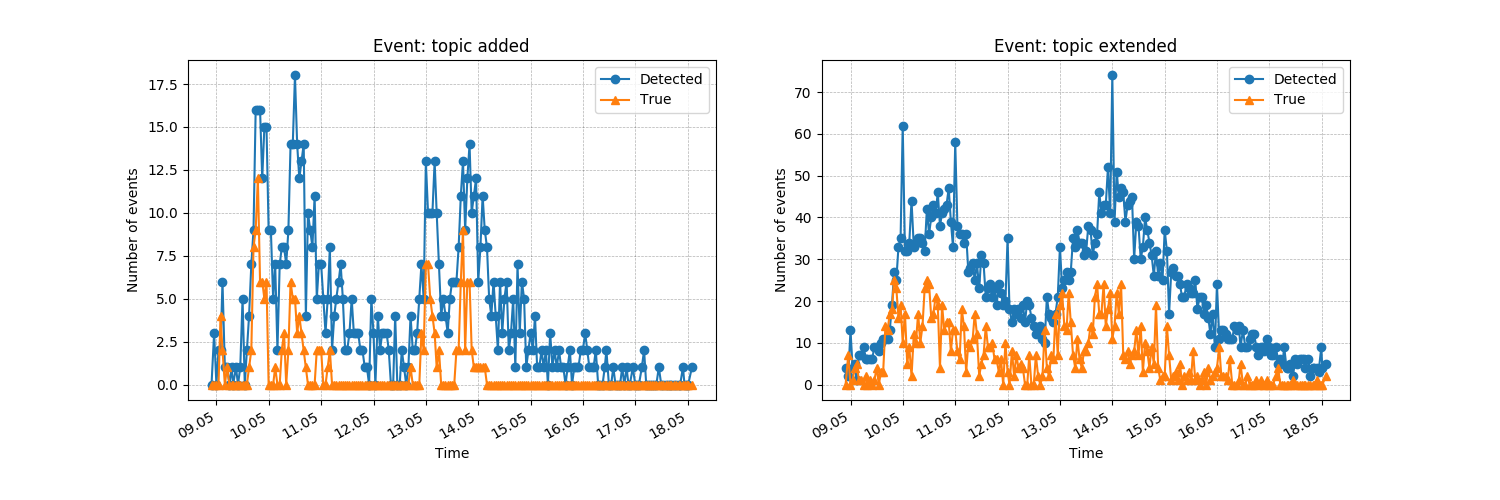
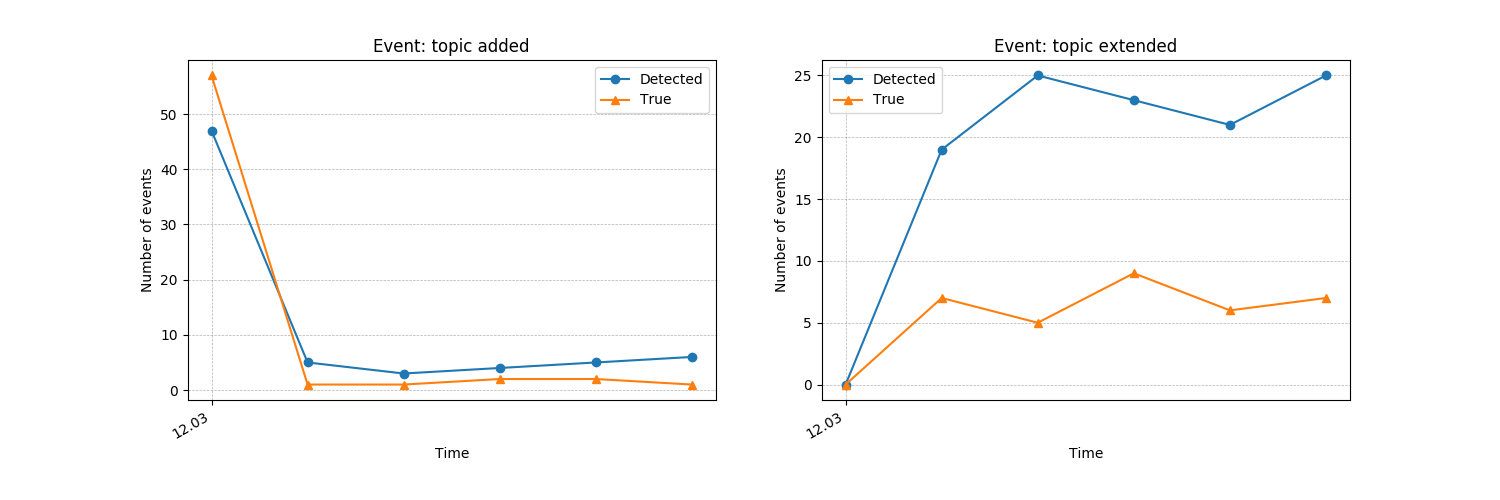
Fix errors in online clustering validation.. Now the values make finally sense

diff --git a/app/data_processing/online_clustering.py b/app/data_processing/online_clustering.py
@@ -58,17 +58,20 @@ def cluster_news(news_articles):
     )
 
 
-def find_changes_in_clusters(existing_clusters, new_cluster_identifiers):
+def find_changes_in_clusters(clusters, new_cluster_identifiers):
     changed_clusters = []
     unchanged_clusters = []
     new_clusters = []
 
     lsh = MinHashLSH(threshold=0.75, num_perm=256)
     min_hashes = dict()
-    for index, cluster in existing_clusters.iterrows():
-        m = create_minhash(cluster["identifier"])
+    clusters_by_index = dict()
+
+    for index, cluster in enumerate(clusters):
+        m = create_minhash(cluster)
         min_hashes[index] = m
         lsh.insert(index, m)
+        clusters_by_index[index] = cluster
 
     for identifier in new_cluster_identifiers:
         m = create_minhash(identifier)
@@ -78,7 +81,7 @@ def find_changes_in_clusters(existing_clusters, new_cluster_identifiers):
             new_clusters.append(identifier)
         else:
             cluster_id = find_best_match(m, min_hashes, cluster_ids)
-            existing_identifier = existing_clusters.loc[cluster_id]["identifier"]
+            existing_identifier = clusters_by_index[cluster_id]
             existing_news = set(existing_identifier.split(","))
             new_news = set(identifier.split(","))
 
@@ -87,7 +90,7 @@ def find_changes_in_clusters(existing_clusters, new_cluster_identifiers):
 
             if len(additions) == 0 and len(deletions) == 0:
                 unchanged_clusters.append(identifier)
-            else:
+            elif len(additions) > 0:
                 changed_clusters.append(
                     {
                         "cluster_id": cluster_id,
@@ -104,11 +107,13 @@ def find_changes_in_clusters(existing_clusters, new_cluster_identifiers):
 def find_best_match(min_hash, min_hashes, cluster_ids):
     best_match = 0
     best_similarity = 0
+
     for cluster_id in cluster_ids:
         similarity = min_hash.jaccard(min_hashes[cluster_id])
         if similarity > best_similarity:
             best_similarity = similarity
             best_match = cluster_id
+
     return best_match
 
 
@@ -134,7 +139,7 @@ def find_true_events(new_news_ids, existing_news_ids):
             existing_ids = existing_stories[story]
             additions = news_ids - existing_ids
             deletions = existing_ids - news_ids
-            if len(additions) > 0 or len(deletions) > 0:
+            if len(additions) > 0: # or len(deletions) > 0: # we don't care about deletions for now
                 change_events.append(
                     {"story": story, "additions": additions, "deletions": deletions}
                 )
@@ -154,7 +159,41 @@ def get_stories_from_news_ids(news_ids):
     return news_by_story
 
 
-def run(date, rows, full_cluster=False, verbose=False):
+def persist_cluster_and_events(new_clusters, changed_clusters):
+    # Add new clusters
+    for cluster in new_clusters:
+        cluster_id = db.add_cluster(cluster)
+        db.add_event(Event.TOPIC_ADDED, cluster_id)
+
+    # Process changed clusters
+    for cluster in changed_clusters:
+        cluster_id = cluster["cluster_id"]
+        changes = {}
+
+        if full_cluster:
+            identifier = cluster["new_identifier"]
+            changes["additions"] = cluster["additions"]
+            changes["deletions"] = cluster["deletions"]
+        else:
+            # In partial clusters deletions will be ignored, since the deleted articles are most likely not part of
+            # the sample subset. We could check in the future if deleted articles are part of the current subset.
+            changes["additions"] = cluster["additions"]
+            identifier = cluster["old_identifier"].split(",")
+            identifier += cluster["additions"]
+            identifier.sort()
+            identifier = ",".join(identifier)
+
+        db.update_cluster(cluster_id, identifier)
+        if "additions" in changes and len(changes["additions"]) > 0:
+            db.add_event(Event.TOPIC_CHANGED, cluster_id, str(changes))
+
+        if "deletions" in changes and len(changes["deletions"]) > 0:
+            # We ignore deletions for now, since single batches might miss older articles, 
+            # which we don't want to count as events. 
+            pass
+
+
+def run(date, rows, full_cluster=False, verbose=False, existing_clusters=None, persit_clusters_in_db=False):
     # The online method works by regularly fetching articles from a certain date
     # and cluster them. Once in a while the whole (limited by nrows) dataset will be clustered again.
     # After each clustering step, the result is compared with the previous one
@@ -162,65 +201,34 @@ def run(date, rows, full_cluster=False, verbose=False):
 
     load_dotenv()
 
+    clusters = []
+
     log_message = ""
     failed = False
-    last_processed_date = "0000-00-00 00:00:00"
 
     start = time.time()
 
     try:
         clusters, last_processed_date = cluster_news_by_date(rows, date)
-        existing_clusters = db.get_clusters()
+
+        if existing_clusters is None:
+            existing_clusters_dataframe = db.get_clusters()
+            existing_clusters = set(existing_clusters_dataframe["identifier"])
+
         changed_clusters, unchanged_clusters, new_clusters = find_changes_in_clusters(
             existing_clusters, clusters
         )
 
-        n_addition_events = 0
-        n_change_events = 0
-        n_deletion_events = 0
-
-        # Add new clusters
-        for cluster in new_clusters:
-            cluster_id = db.add_cluster(cluster)
-            db.add_event(Event.TOPIC_ADDED, cluster_id)
-            n_addition_events += 1
-
-        # Process changed clusters
-        for cluster in changed_clusters:
-            cluster_id = cluster["cluster_id"]
-            changes = {}
-
-            if full_cluster:
-                identifier = cluster["new_identifier"]
-                changes["additions"] = cluster["additions"]
-                changes["deletions"] = cluster["deletions"]
-            else:
-                # In partial clusters deletions will be ignored, since the deleted articles are most likely not part of
-                # the sample subset. We could check in the future if deleted articles are part of the current subset.
-                changes["additions"] = cluster["additions"]
-                identifier = cluster["new_identifier"].split(",")
-                identifier += cluster["additions"]
-                identifier.sort()
-                identifier = ",".join(identifier)
-
-            db.update_cluster(cluster_id, identifier)
-            if "additions" in changes and len(changes["additions"]) > 0:
-                n_change_events += 1
-                db.add_event(Event.TOPIC_CHANGED, cluster_id, str(changes))
-
-            if "deletions" in changes and len(changes["deletions"]) > 0:
-                # We ignore deletions for now, since single batches might miss older articles, 
-                # which we don't want to count as events. 
-                pass
+        if persit_clusters_in_db:
+            # Store clusters and events in db for closer analysis
+            persist_cluster_and_events(new_clusters, changed_clusters)
 
         # Get true events based on labeled test data
         new_news_ids = list(
-            chain.from_iterable([identifier.split(",") for identifier in new_clusters])
+            chain.from_iterable([identifier.split(",") for identifier in clusters])
         )
         existing_news_ids = list(
-            chain.from_iterable(
-                [identifier.split(",") for identifier in existing_clusters["identifier"]]
-            )
+            chain.from_iterable([identifier.split(",") for identifier in existing_clusters])
         )
 
         new_rows = len(set(new_news_ids) - set(existing_news_ids))
@@ -230,22 +238,17 @@ def run(date, rows, full_cluster=False, verbose=False):
 
         if verbose:
             print("----------------------")
-            print("Statistics:")
-            print("Number of changed clusters:", len(changed_clusters))
-            print("Number of unchanged clusters:", len(unchanged_clusters))
-            print("Number of new clusters:", len(new_clusters))
-            print("----------------------")
+            print("New Rows: ", len(set(new_news_ids) - set(existing_news_ids)))   
             print("Events:")
-            print("Topic added: {} detected, {} true".format(n_addition_events, true_addition_events))
-            print("Topic changed: {} detected, {} true".format(n_change_events, len(true_change_events)))
-            print("Topic deleted: {} detected, {} true".format(n_deletion_events, true_deletion_events))
+            print("Topic added: {} detected, {} true".format(len(new_clusters), true_addition_events))
+            print("Topic changed: {} detected, {} true".format(len(changed_clusters), len(true_change_events)))
+            # print("Topic deleted: {} detected, {} true".format(n_deletion_events, true_deletion_events))
 
         result = {
-            "topic_added": {"detected": n_addition_events , "true": true_addition_events},
-            "topic_changed": {"detected": n_change_events, "true": len(true_change_events)},
-            "topic_deleted": {"detected": n_deletion_events , "true": true_deletion_events}
-        }
-        
+            "topic_added": {"detected": len(new_clusters) , "true": true_addition_events},
+            "topic_changed": {"detected": len(changed_clusters), "true": len(true_change_events)},
+            # "topic_deleted": {"detected": n_deletion_events , "true": true_deletion_events}
+        } 
 
     except ArithmeticError as err:
         if verbose:
@@ -261,6 +264,8 @@ def run(date, rows, full_cluster=False, verbose=False):
     db.add_script_execution(
         script_name, str(date), failed, log_message, processing_time, str(result), new_rows, full_cluster, rows
     )
+
+    return clusters
 
 
 # Test run:
@@ -315,6 +320,7 @@ if __name__ == "__main__":
         db.reset_online_evaluation()
         current_date = datetime.strptime(date, "%Y-%m-%d %H:%M:%S")
         end_date = current_date + timedelta(days=run_n_days)
+        clustering = []
         while current_date < end_date:
 
             if verbose:
@@ -322,9 +328,9 @@ if __name__ == "__main__":
                 print("Date: ", current_date)
                 
             if full_cluster and (current_date.hour == 0 or current_date.hour == 24):
-                run(current_date, full_rows, True, verbose)
+                clustering = run(current_date, full_rows, True, verbose, clustering)
             else:
-                run(current_date, rows, False, verbose)
+                clustering = run(current_date, rows, False, verbose, clustering)
                 
             current_date += timedelta(hours=1)
         

diff --git a/app/data_processing/online_clustering_examples.py b/app/data_processing/online_clustering_examples.py
@@ -1,0 +1,67 @@
+import db
+import os
+import utils
+import argparse
+import time
+import collections
+from itertools import chain
+from dotenv import load_dotenv
+from hdbscan import HDBSCAN, approximate_predict
+from sklearn.feature_extraction.text import TfidfVectorizer
+from datasketch import MinHash, MinHashLSH
+from datetime import datetime
+from datetime import timedelta
+
+import online_clustering
+
+script_name = os.path.basename(__file__)
+
+load_dotenv()
+
+def compare_clusters(existing_clusters, new_clusters):
+        
+    # Get true events based on labeled test data
+
+    new_news_ids = list(
+        chain.from_iterable([identifier.split(",") for identifier in new_clusters])
+    )
+    existing_news_ids = list(
+        chain.from_iterable([identifier.split(",") for identifier in existing_clusters])
+    )
+
+    new_rows = len(set(new_news_ids) - set(existing_news_ids))
+    true_change_events, true_addition_events, true_deletion_events = online_clustering.find_true_events(
+        new_news_ids, existing_news_ids
+    )
+
+    changed_clusters, unchanged_clusters, new_clusters = online_clustering.find_changes_in_clusters(existing_clusters, new_clusters)
+
+    print("----------------------")
+    print("New Rows: ", len(set(new_news_ids) - set(existing_news_ids)))   
+    print("Events:")
+    print("Topic added: {} detected, {} true".format(len(new_clusters), true_addition_events))
+    print("Topic extended: {} detected, {} true".format(len(changed_clusters), len(true_change_events)))
+
+
+# Overwrite function to handle different input format... 
+
+
+
+date1 = '2014-05-15 11:00:00'
+date2 = '2014-05-15 12:00:00'
+date3 = '2014-05-15 13:00:00'
+date4 = '2014-05-15 14:00:00'
+date5 = '2014-05-15 15:00:00'
+
+nrows = 2000
+
+clusters1,_ = online_clustering.cluster_news_by_date(nrows, date1)
+clusters2,_ = online_clustering.cluster_news_by_date(nrows, date2)
+clusters3,_ = online_clustering.cluster_news_by_date(nrows, date3)
+clusters4,_ = online_clustering.cluster_news_by_date(nrows, date4)
+clusters5,_ = online_clustering.cluster_news_by_date(nrows, date5)
+
+compare_clusters(clusters1, clusters2)
+compare_clusters(clusters2, clusters3)
+compare_clusters(clusters3, clusters4)
+compare_clusters(clusters4, clusters5)

diff --git a/app/data_processing/online_clustering_with_predictions.py b/app/data_processing/online_clustering_with_predictions.py
@@ -1,0 +1,36 @@
+import db
+import os
+import utils
+import argparse
+import time
+import collections
+from itertools import chain
+from dotenv import load_dotenv
+from hdbscan import HDBSCAN, approximate_predict
+from sklearn.feature_extraction.text import TfidfVectorizer
+from datasketch import MinHash, MinHashLSH
+from datetime import datetime
+from datetime import timedelta
+
+script_name = os.path.basename(__file__)
+
+# The model is global, since we need the same instance for each batch
+model = HDBSCAN(min_cluster_size=5, metric="euclidean", prediction_data=True)
+vectorizer = TfidfVectorizer(min_df=3, max_df=0.9, lowercase=True, max_features=50000, analyzer="word", stop_words="english")
+
+
+def predict_news_cluster_by_date(nrows, date):
+    last_script_execution = db.get_last_script_execution(script_name)
+    last_processed_date = (
+        last_script_execution["last_processed_date"].values[0]
+        if last_script_execution is not None
+        else None
+    )
+
+    # Load only news articles since the last batch
+    news_articles = db.get_news_articles_from_startdate_to_enddate(str(last_processed_date), str(date), nrows)
+    data_matrix = vectorizer.transform(news_articles["text_lemmatized_without_stopwords"])
+    labels, probabilities = approximate_predict(model, data_matrix.toarray())
+
+    # Clusters are identified by a sorted string of news ids
+    return labels

diff --git a/app/data_processing/db.py b/app/data_processing/db.py
@@ -156,6 +156,38 @@ def get_news_articles_from_date(date, nrows=1000, skip_rows=0):
     return data
 
 
+def get_news_articles_from_startdate_to_enddate(startdate, enddate, nrows=1000, skip_rows=0):
+    connection = get_connection()
+
+    get_sql = (
+        "SELECT *"
+        " FROM news_article"
+        " WHERE newspaper_processed = 1"
+        "     AND preprocessed = 1"
+        "     AND title_keywords_intersection = 1"
+        "     AND hostname != 'newsledge.com'"
+        "     AND hostname != 'www.newsledge.com'"
+        "     AND newspaper_text IS NOT NULL"
+        "     AND TRIM(COALESCE(newspaper_text, '')) != ''"
+        "     AND newspaper_text NOT LIKE '%%GDPR%%'"
+        "     AND newspaper_text NOT LIKE '%%javascript%%'"
+        "     AND newspaper_text NOT LIKE '%%404%%'"
+        "     AND newspaper_text NOT LIKE '%%cookie%%'"
+        "     AND computed_publish_date is not NULL"
+        "     AND computed_publish_date > %s"
+        "     AND computed_publish_date <= %s"
+        " ORDER BY computed_publish_date DESC"
+        " LIMIT %s, %s"
+    )
+
+    data = pandas.read_sql(
+        sql=get_sql, con=connection, index_col="id", params=[startdate, enddate, skip_rows, nrows]
+    )
+    connection.close()
+
+    return data
+
+
 def add_news_to_cluster(cluster_id, news_article_id):
     connection = get_connection()
 
